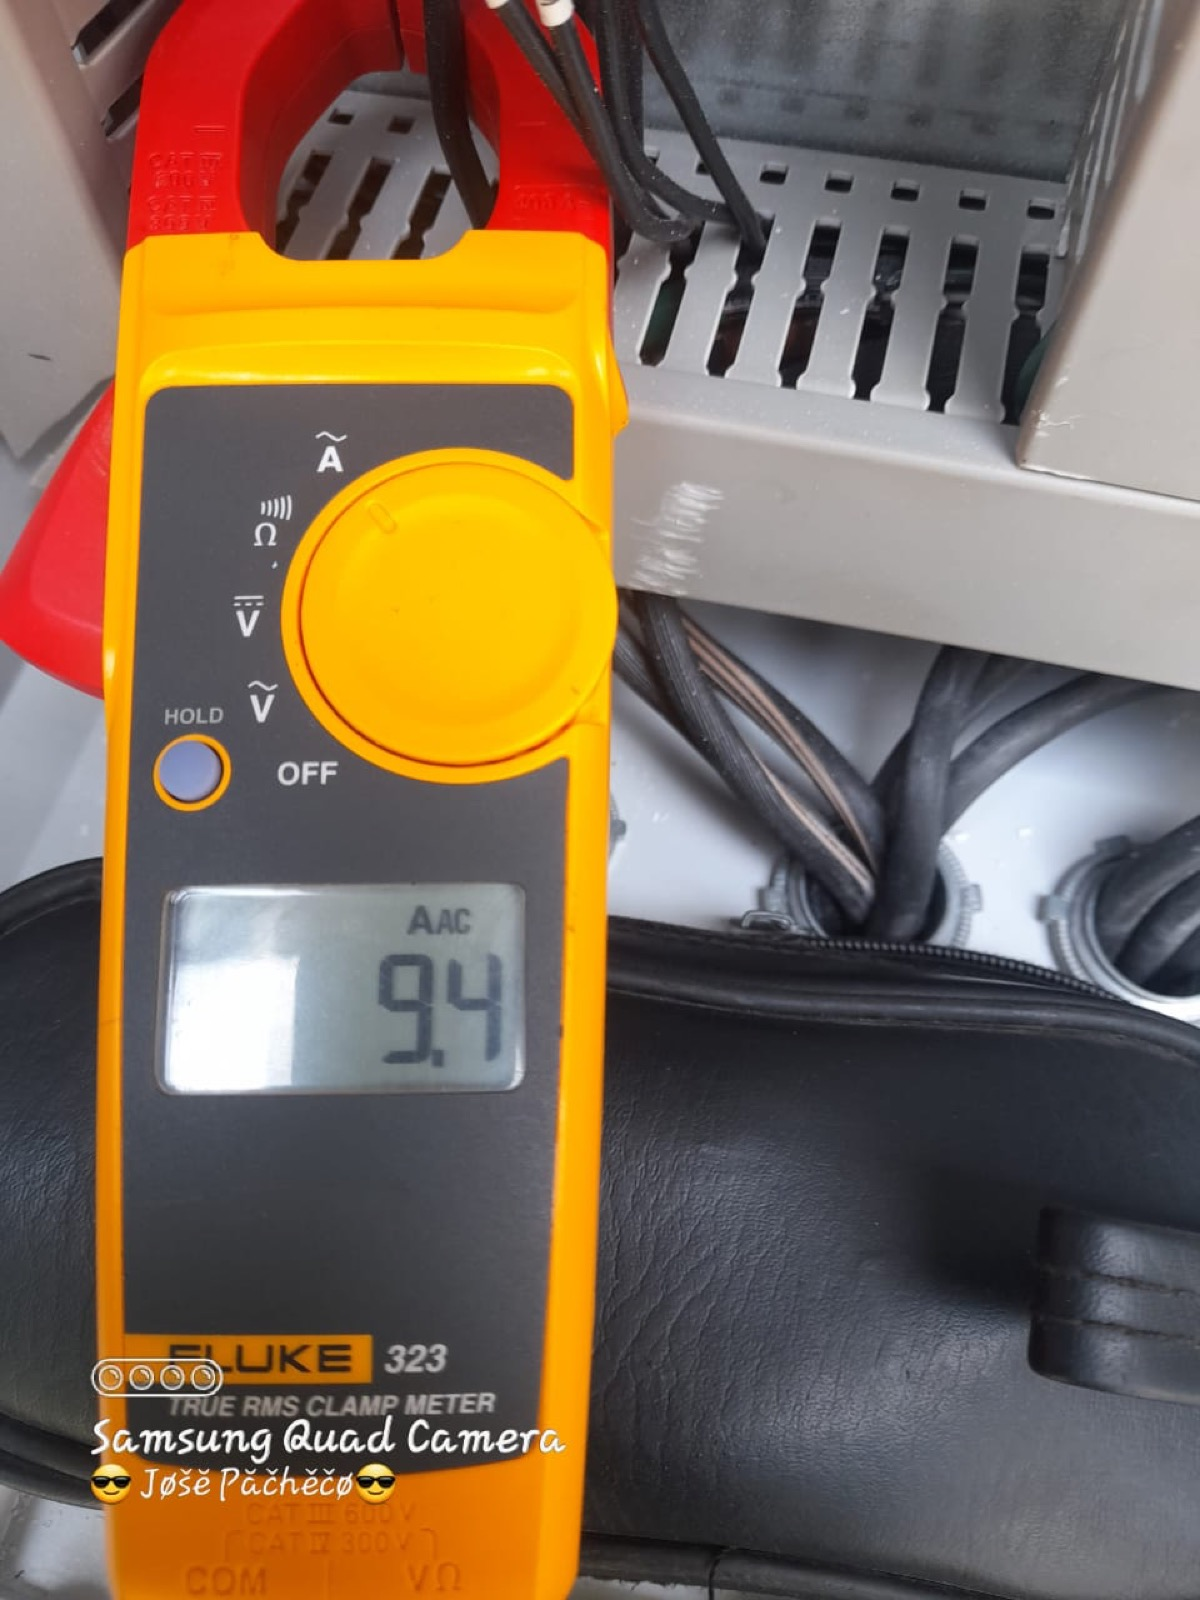
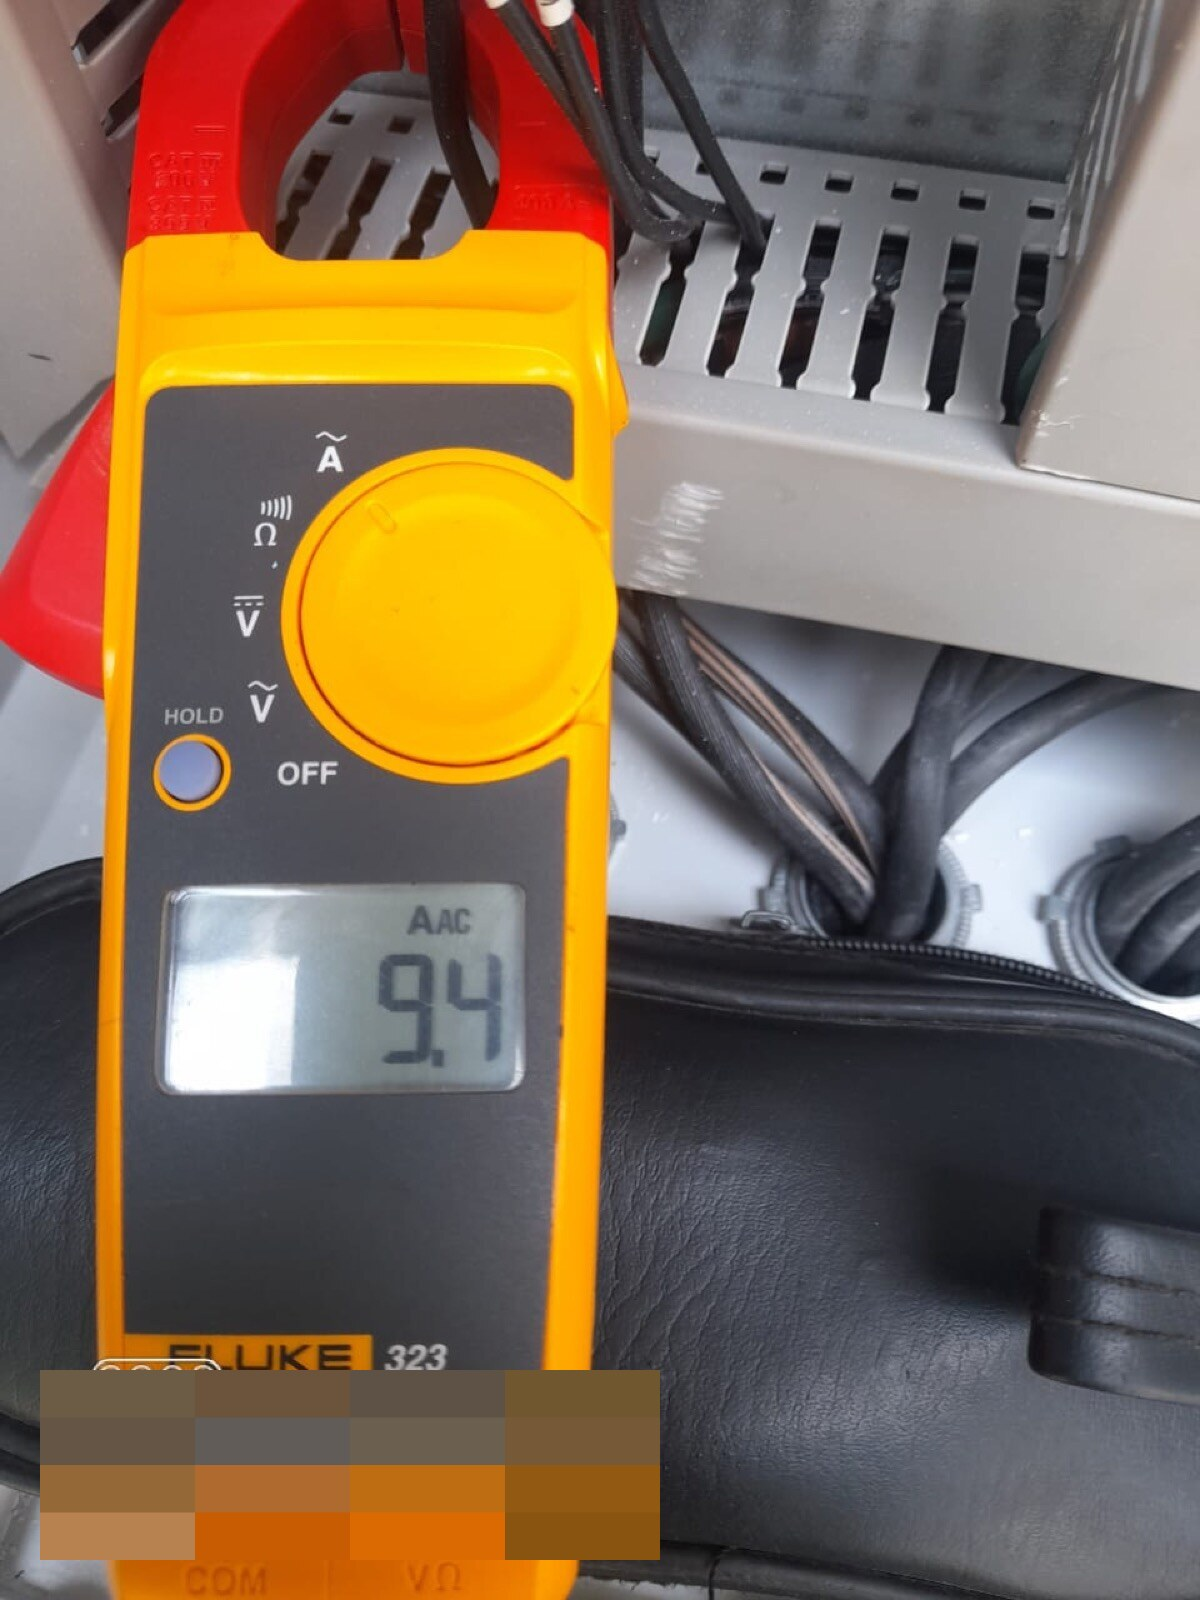
fix(proyectos): retira y censura informacion confidencial de clientes en imagenes
Las galerias de casos de exito exponian informacion que no nos corresponde
publicar: logos de clientes, pantallas de operador con parametros de proceso,
capturas del software de ingenieria con IPs de la red OT, ordenes de
produccion y datos personales.

Imagenes retiradas (13):
- ultracem-e300-scada: las 6 (SCADA con logo y variables de planta, y capturas
  de Studio 5000 con las IPs de los controladores y el programa del PLC)
- litoplas-migracion-scada: cover, g1, g2, g4 (SCADA con logo y setpoints)
- litoplas-extrusora-27: cover (SCADA con logo y temperaturas por zona)
- litoplas-cortadora: g4 (HMI con logo)
- gelco-control-secado: g1 (HMI con logo)

Regiones censuradas de forma destructiva, quemadas en el archivo para que no
se puedan revertir descargando la imagen (5):
- farmacapsulab g1, g2, g4: ordenes de produccion con lote, producto,
  cantidades y el cliente final del cliente
- gelco-subestacion-2-miobox g4: placa de vehiculo reflejada en el vidrio
- gelco-filtros-arena g3: marca de agua de camara con un nombre personal

Los casos de exito siguen publicados. Se promueven fotos limpias como portada
en los proyectos de Litoplas y, en Ultracem, una imagen institucional propia.
Se documenta el criterio en docs/confidencialidad-imagenes-proyectos.md.

Changed region(s): [[0.0308, 0.8438, 0.555, 1.0]]

diff --git a/docs/confidencialidad-imagenes-proyectos.md b/docs/confidencialidad-imagenes-proyectos.md
@@ -1,0 +1,65 @@
+# Confidencialidad de las imágenes de proyectos
+
+## Por qué existe esta regla
+
+Las fotos de los casos de éxito se toman dentro de las plantas de los clientes. Una foto de un tablero es material comercial legítimo; una foto de una pantalla de operador puede exponer datos del cliente que no nos corresponde publicar: su marca, sus parámetros de proceso, sus órdenes de producción o la topología de su red industrial.
+
+El criterio es simple: **la web muestra nuestro trabajo, no la operación del cliente.**
+
+## Qué no se publica
+
+Antes de agregar una imagen a `public/assets/images/proyectos/`, se descarta si contiene:
+
+1. **Pantallas SCADA o HMI en primer plano.** Muestran el logo del cliente, el mímico de su proceso y sus valores de operación (temperaturas por zona, presiones, kg/h, torque, setpoints). Es la receta de producción del cliente.
+2. **Capturas de software de ingeniería** (Studio 5000, TIA Portal y similares). Exponen direcciones IP de la red OT, rutas de controlador, estructura del programa y nombres de tags. Es información directamente aprovechable por un atacante.
+3. **Documentos de planta legibles**: órdenes de producción, etiquetas de lote, listas de despacho. Pueden revelar el producto, los volúmenes e incluso el cliente final del cliente.
+4. **Datos personales**: placas de vehículos, cédulas, rostros identificables de terceros, marcas de agua de cámara con nombres de personas. Ojo con los reflejos en vidrios y puertas de tablero.
+
+Sí se publica sin problema: tableros, barrajes, canalizaciones, equipos de fabricante (Siemens, Allen-Bradley, Schneider), instrumentos de medición y personal propio con EPP.
+
+## Cómo se retira información sensible
+
+Hay dos tratamientos según qué tan central sea el dato en la foto:
+
+- **Retirar la imagen** cuando lo sensible es el contenido completo (una pantalla SCADA no se salva tapando el logo: los valores siguen ahí).
+- **Censurar la región** cuando la foto es valiosa y el dato sensible es acotado (una etiqueta, una placa, una marca de agua).
+
+La censura debe ser **destructiva y quemada en el archivo**. No sirve taparlo con CSS, con un overlay ni con una capa de edición: quien descargue la imagen debe recibirla ya censurada, sin forma de revertirla.
+
+El procedimiento aplicado reduce la región a unos pocos píxeles y la vuelve a escalar, lo que destruye el detalle original de forma irrecuperable:
+
+```bash
+# redacta una región de WxH en la posición +X+Y, sobre el archivo mismo
+magick imagen.jpg -strip \
+  \( +clone -crop "${W}x${H}+${X}+${Y}" +repage \
+     -scale 4x4! -scale "${W}x${H}!" \) \
+  -geometry "+${X}+${Y}" -composite \
+  -quality 88 imagen.jpg
+```
+
+El `-strip` elimina además los metadatos EXIF, que pueden incluir coordenadas GPS de la planta.
+
+Después de censurar hay que **verificar con un recorte ampliado** que no quedó texto legible en los bordes de la región: las marcas de agua y las etiquetas suelen tener una segunda línea que se escapa.
+
+## Al retirar una imagen
+
+- Si la imagen retirada era la portada (`coverImage`), se promueve otra foto limpia del mismo proyecto.
+- Si no queda ninguna foto publicable, se usa una imagen institucional propia de `src/assets/images/` y la galería queda vacía. El caso de éxito se mantiene publicado con su texto, KPIs y resultados: se retira el material sensible, no el proyecto.
+- Hay que actualizar las **dos** versiones del contenido: `src/content/proyectos/` y `src/content/proyectos/en/`.
+- Una galería sin imágenes se escribe `gallery: []`. Dejar `gallery:` sin elementos la vuelve `null` y rompe la validación del esquema de contenido.
+
+## Verificación antes de publicar
+
+```bash
+# 1. Ninguna referencia del contenido apunta a un archivo inexistente
+refs=$(rg -o --no-filename '/assets/images/proyectos/[a-z0-9./-]+\.jpg' src/content | sort -u)
+echo "$refs" | while read -r p; do [ -f "public$p" ] || echo "FALTA: $p"; done
+
+# 2. Ninguna imagen queda en disco sin referencia
+fd -e jpg . public/assets/images/proyectos | while read -r f; do
+  echo "$refs" | rg -q -F "/${f#public/}" || echo "SIN REF: $f"
+done
+
+# 3. El sitio compila
+npm run build
+```
